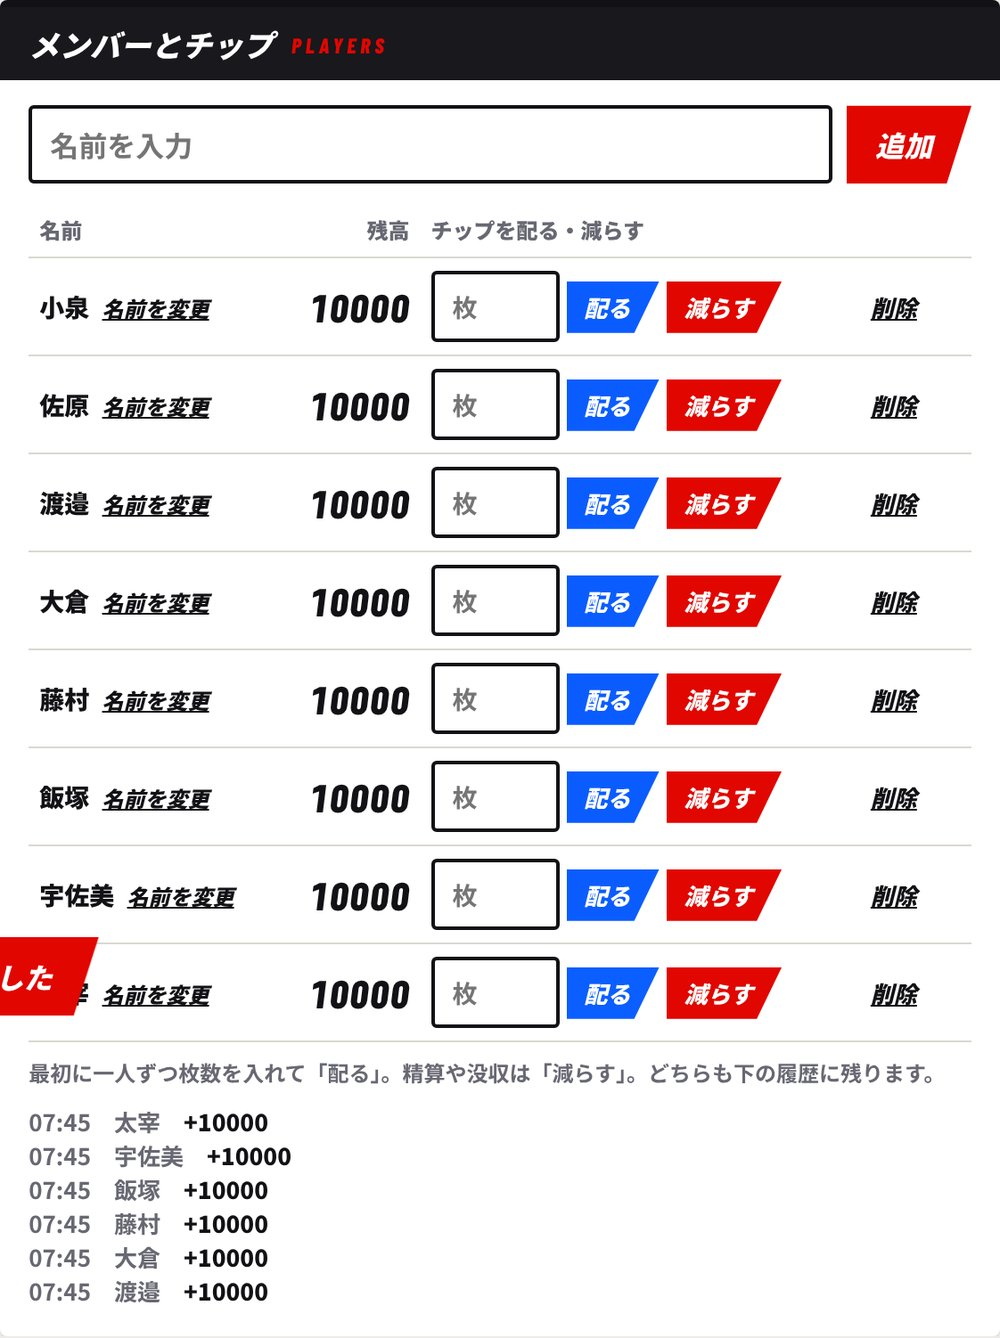
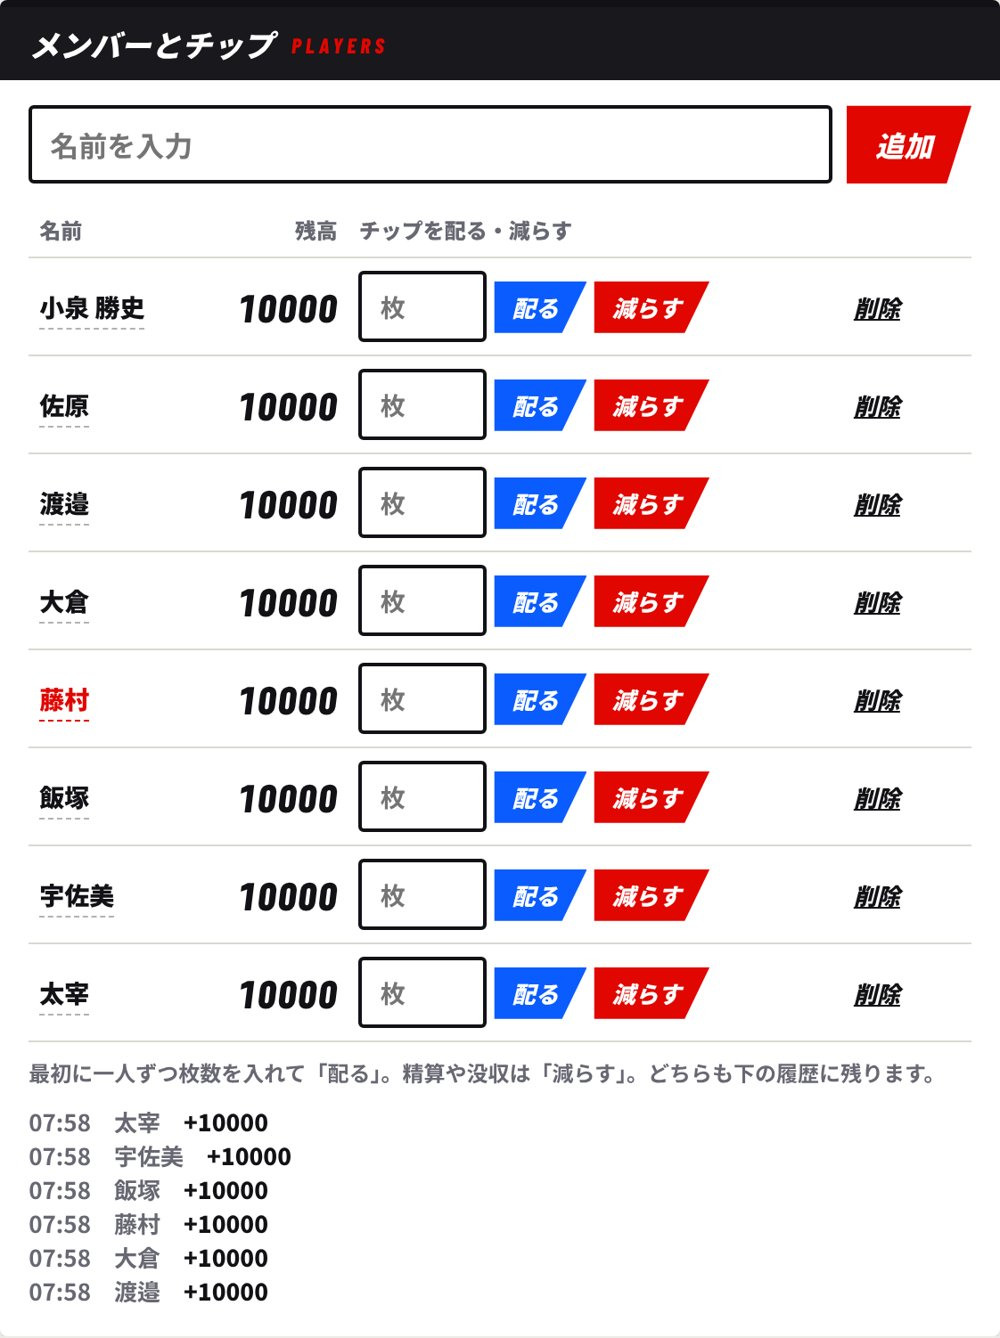
Publish tap-to-rename for members
Claude-Session: https://claude.ai/code/session_01Ww7jsUFGT8753ufTPMNzBb

diff --git a/index.html b/index.html
@@ -260,6 +260,9 @@ h1,h2,h3{font-family:var(--f-display);font-weight:900;font-style:italic;margin:0
 .amt .v{font-family:var(--f-num);font-weight:800;font-style:italic;font-size:36px;min-width:1.8em;text-align:center;line-height:1}
 .betbar .num[style]{color:var(--yellow)!important}
 .mytix{display:grid;gap:4px}
+.tbl .btn{white-space:nowrap}
+.nameedit{font:inherit;font-weight:900;color:inherit;background:none;border:0;border-bottom:1px dashed #0000004d;padding:2px 0;cursor:pointer;text-align:left}
+.nameedit:hover{color:var(--red);border-bottom-color:var(--red)}
 .selp{display:inline-flex;align-items:center;white-space:nowrap}
 .selnm{font-weight:800;margin:0 2px 0 4px;white-space:nowrap}
 .tline>span:first-child,.mytix .tl>span:first-child{flex-wrap:wrap;min-width:0;row-gap:2px}
@@ -1035,7 +1038,7 @@ function helpAdmin(){
     <h3>1. 管理画面を開く</h3>
     <ol class="mlist"><li>管理用URLを開き、暗証番号を入れて「開く」（一度入れた端末は次回から不要）</li><li>テレビにつないだPCで大画面用URLを開き、全画面表示にする</li></ol>
     <h3>2. メンバーを登録する</h3>
-    <ul class="mlist"><li>初めての人：「名前を入力」に名前を入れて「追加」ボタン（Enterキーでは追加されません）</li><li>名前を間違えたら、名前の横の「名前を変更」で直せます</li><li>苗字と名前のあいだにスペースを入れておくと（例：小泉 勝史）、馬券に何人か並ぶときに苗字だけが正しく表示されます</li><li>2回目から：「いつものメンバー」の名前をタップ。「全員参加」でまとめて追加</li></ul>
+    <ul class="mlist"><li>初めての人：「名前を入力」に名前を入れて「追加」ボタン（Enterキーでは追加されません）</li><li>名前を間違えたら、メンバー一覧の名前を押すとその場で直せます（Enterか「保存」で決定）</li><li>苗字と名前のあいだにスペースを入れておくと（例：小泉 勝史）、馬券に何人か並ぶときに苗字だけが正しく表示されます</li><li>2回目から：「いつものメンバー」の名前をタップ。「全員参加」でまとめて追加</li></ul>
     <h3>3. チップを配る</h3>
     <p>各自の行の「枚」に枚数を入れて青い「配る」。1チップ＝1円の感覚で、賭けは${unit()}チップ単位です。全員に同じ枚数を配るのがおすすめです（例：1万チップ）。配りすぎたら「減らす」。</p>
     ${mImg("members.jpg","8人を登録し、各1000枚を配ったところ")}
@@ -1471,7 +1474,7 @@ function adminMembers(){
     ${!started||S.ui.showJoin?rosterHtml():""}
     ${!started||S.ui.showJoin?`<div class="row" style="margin-bottom:10px"><input id="newName" data-bind="newName" placeholder="名前を入力" value="${esc(S.ui.form.newName||"")}" style="flex:1"><button class="btn go" data-act="addMember">${started?"途中参加":"追加"}</button></div>`:""}
     <div class="scroll"><table class="tbl"><tr><th>名前</th><th class="r">残高</th><th>チップを配る・減らす</th><th></th></tr>
-    ${members().map(m=>`<tr style="${m.left?"opacity:.45":""}"><td>${S.ui.editName===m.id?`<span class="row" style="gap:4px;flex-wrap:nowrap"><input id="rename_${m.id}" class="mini" style="width:110px" data-bind="rename_${m.id}" value="${esc(S.ui.form["rename_"+m.id]??m.name)}" aria-label="新しい名前"><button class="btn sm go" data-act="renameSave" data-id="${m.id}">保存</button><button class="btn sm ghost" data-act="renameCancel">やめる</button></span>`:`<b>${esc(m.name)}</b> <button class="btn sm ghost" data-act="renameStart" data-id="${m.id}" style="padding:0 4px;font-size:12px;text-decoration:underline">名前を変更</button>`} ${m.left?'<span class="pill st-wait" style="font-size:10px;padding:1px 6px">離脱</span>':""}${connected.has(m.id)?'<span class="pill st-open" style="font-size:10px;padding:1px 6px">スマホ接続</span>':""}</td><td class="r"><span class="num" style="font-size:18px">${bal[m.id]||0}</span></td>
+    ${members().map(m=>`<tr style="${m.left?"opacity:.45":""}"><td>${S.ui.editName===m.id?`<span class="row" style="gap:4px"><input id="rename_${m.id}" class="mini" style="width:100%;min-width:90px" data-bind="rename_${m.id}" value="${esc(S.ui.form["rename_"+m.id]??m.name)}" aria-label="新しい名前"><button class="btn sm go" data-act="renameSave" data-id="${m.id}">保存</button><button class="btn sm ghost" data-act="renameCancel">やめる</button></span>`:`<button class="nameedit" data-act="renameStart" data-id="${m.id}" title="押すと名前を直せます">${esc(m.name)}</button>`} ${m.left?'<span class="pill st-wait" style="font-size:10px;padding:1px 6px">離脱</span>':""}${connected.has(m.id)?'<span class="pill st-open" style="font-size:10px;padding:1px 6px">スマホ接続</span>':""}</td><td class="r"><span class="num" style="font-size:18px">${bal[m.id]||0}</span></td>
       <td><div class="row" style="gap:4px;flex-wrap:nowrap"><input id="send_${m.id}" class="mini" type="number" min="1" inputmode="numeric" placeholder="枚" data-bind="send_${m.id}" value="${esc(S.ui.form["send_"+m.id]||"")}"><button class="btn sm blue" data-act="send" data-id="${m.id}" data-sign="1">配る</button><button class="btn sm go" data-act="send" data-id="${m.id}" data-sign="-1">減らす</button></div></td>
       <td>${!started?`<button class="btn sm ghost" data-act="delMember" data-id="${m.id}">削除</button>`:m.left?`<button class="btn sm" data-act="rejoin" data-id="${m.id}">復帰</button>`:`<button class="btn sm red" data-act="leave" data-id="${m.id}">離脱</button>`}</td></tr>`).join("")}
     </table></div>
@@ -1576,7 +1579,7 @@ const A={
     if(!p) mutateRoster(r=>{ r.players.push({id, name}); });
     let re=false; mutateState(s=>{ s.members.push({id, name, tb:Math.random()}); re=rescheduleRest(s); }).then(()=>{ if(re) toast(`${name}が途中参加。残りの出走表を組み直しました`); });
     toast(p?`${name}（登録済み）を追加`:`${name}を追加して名簿に保存しました`); },
-  renameStart(d){ S.ui.editName=d.id; S.ui.form["rename_"+d.id]=mname(d.id); render(); },
+  renameStart(d){ S.ui.editName=d.id; S.ui.form["rename_"+d.id]=mname(d.id); render(); const el=document.getElementById("rename_"+d.id); if(el){ el.focus(); el.select(); } },
   renameCancel(){ if(S.ui.editName) delete S.ui.form["rename_"+S.ui.editName]; S.ui.editName=null; render(); },
   renameSave(d){ const id=d.id, name=(S.ui.form["rename_"+id]||"").trim(); if(!name){ toast("名前を入れてね"); return; }
     if(name===mname(id)){ A.renameCancel(); return; }
@@ -1711,7 +1714,7 @@ document.addEventListener("input",e=>{
   if(b==="proxyMember") render();
 });
 document.addEventListener("change",e=>{ if(e.target.dataset&&e.target.dataset.bind==="proxyMember"){ S.ui.proxyMember=e.target.value; render(); } });
-document.addEventListener("keydown",e=>{ if(e.isComposing||e.keyCode===229) return; if(e.key==="Enter"&&e.target.id==="adminPin") A.pin(); });
+document.addEventListener("keydown",e=>{ if(e.isComposing||e.keyCode===229) return; if(e.key==="Enter"&&e.target.id==="adminPin") A.pin(); if(e.target.id&&e.target.id.startsWith("rename_")){ if(e.key==="Enter") A.renameSave({id:e.target.id.slice(7)}); else if(e.key==="Escape") A.renameCancel(); } });
 window.addEventListener("hashchange",()=>{ S.lastOverlayKey=""; render(); });
 
 /* ticker: countdown digits, auto-close on admin, overlay countdown */
